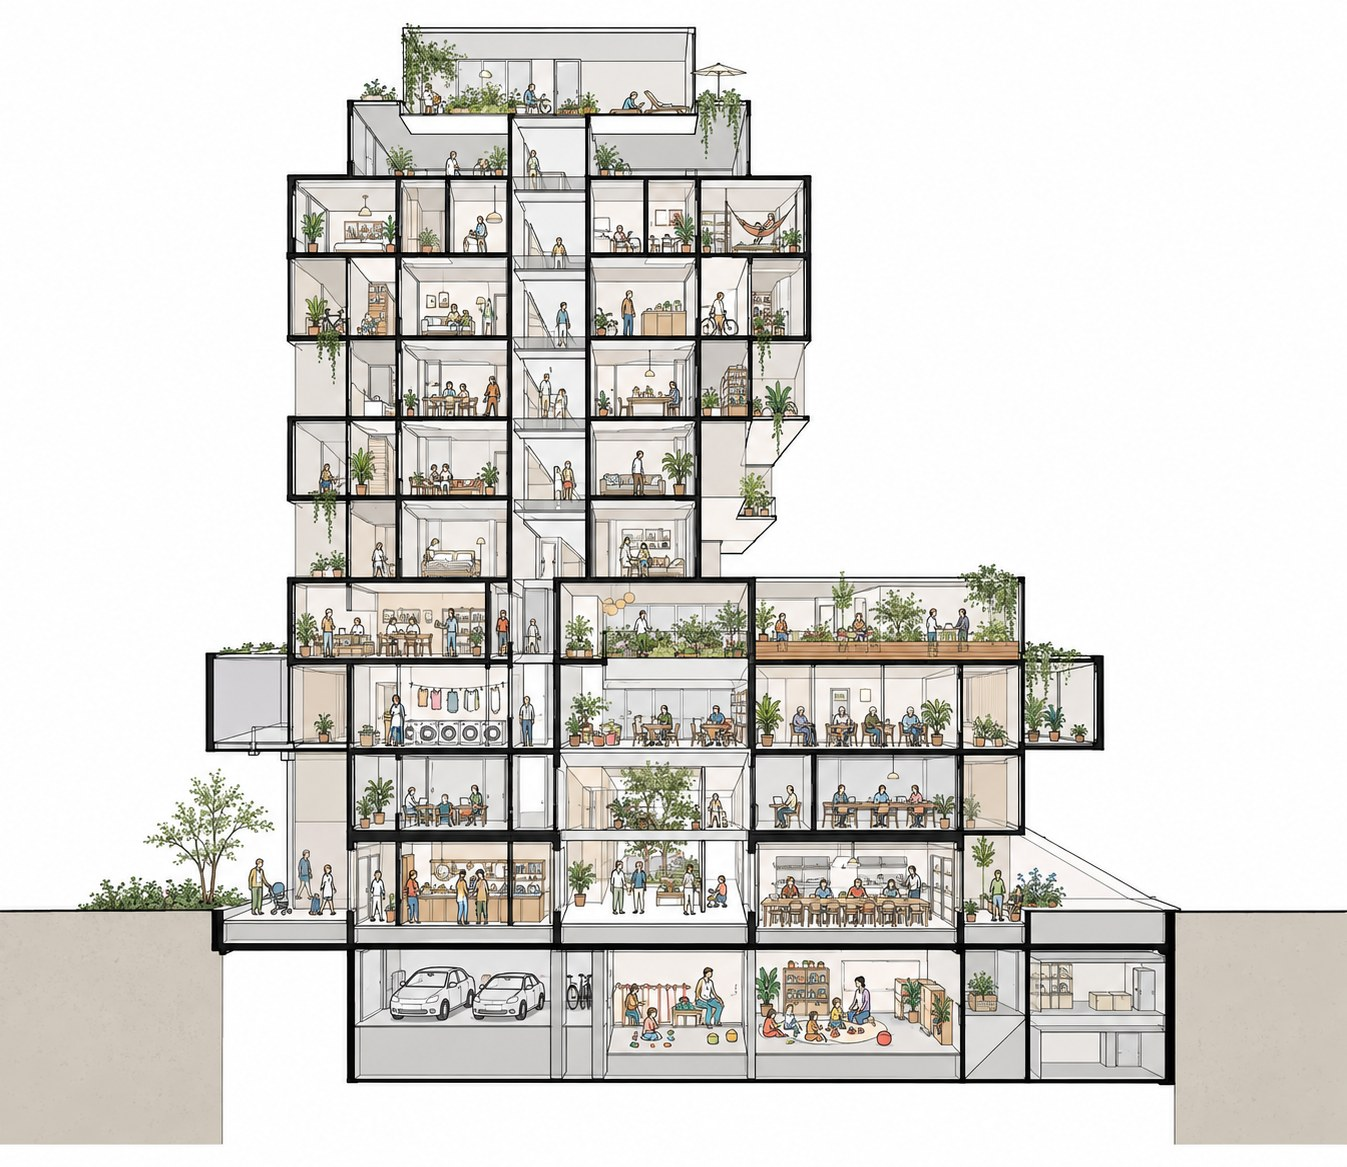
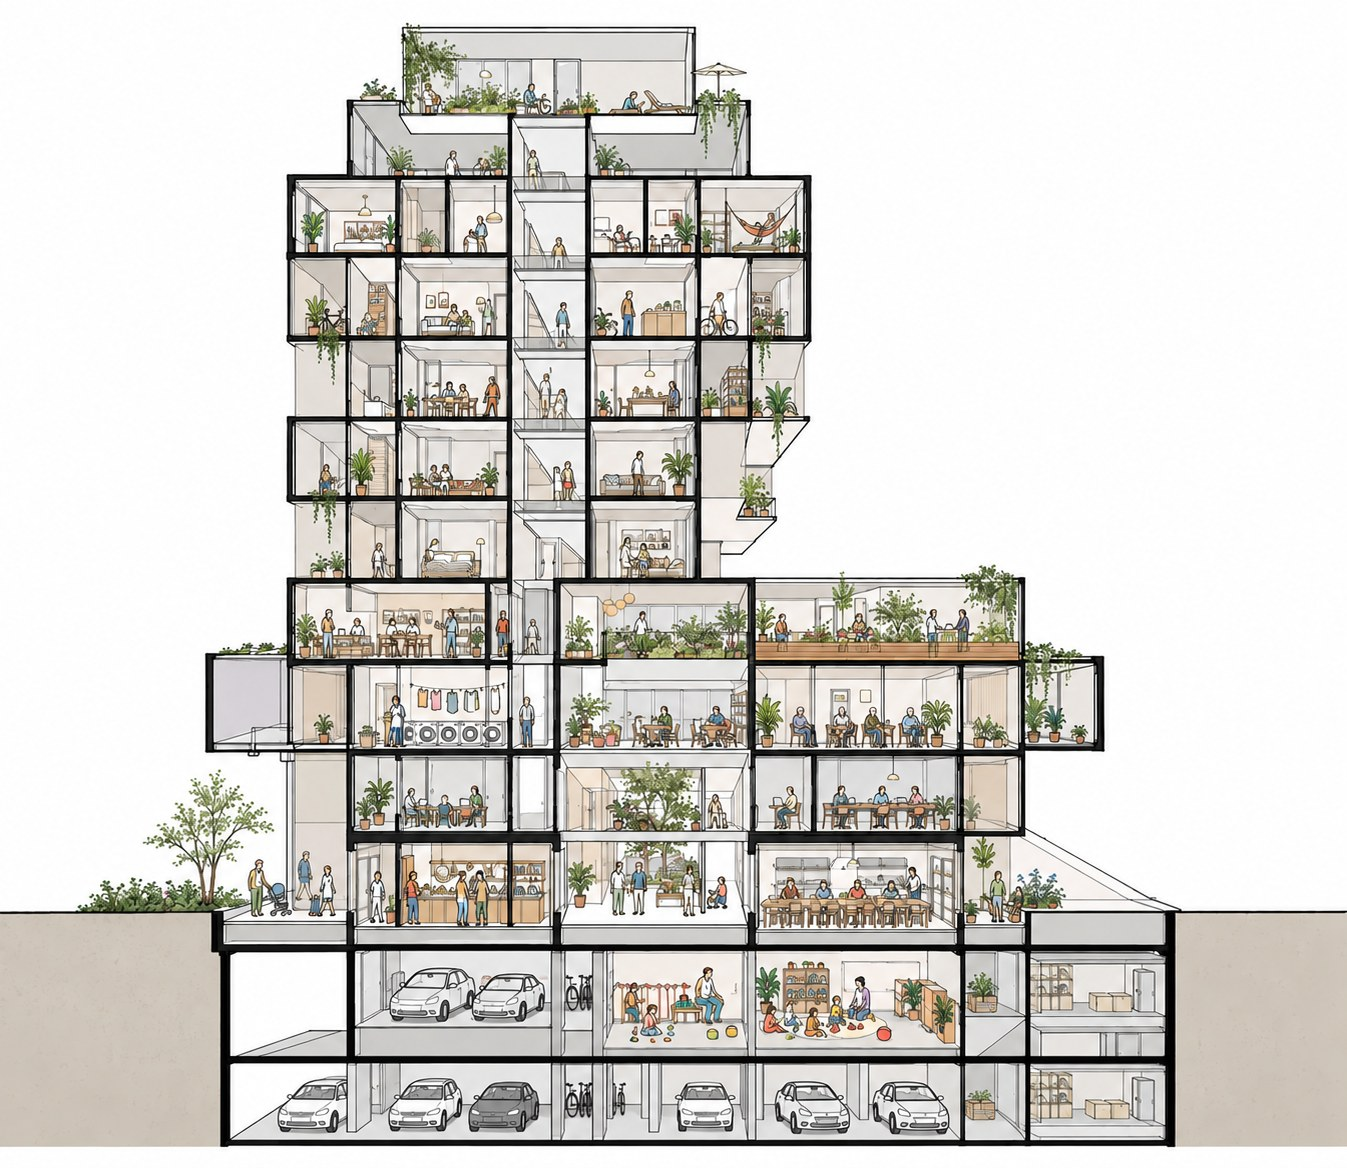
La Ola: corte con dos sótanos y render de calle con luz gris
Claude-Session: https://claude.ai/code/session_01Rs9TY9ki2YSVtRsSTGuvtX

Changed region(s): [[0.0, 0.0, 0.8731, 0.9871], [0.9978, 0.7712, 1.0, 0.8021], [0.3742, 0.4319, 0.4053, 0.4627]]

diff --git a/la-ola/index.html b/la-ola/index.html
@@ -158,7 +158,7 @@ footer{border-top:1px solid var(--rule);padding-top:16px;display:flex;flex-wrap:
     <p>Un edificio donde viven juntos niños, familias y adultos mayores. La vivienda se apila en módulos desplazados sobre un podio de espacios comunes, y una red de corredores y escaleras abiertas los cose a todos.</p>
   </div>
   <figure class="plano hero-ola">
-    <img src="img/corte-habitado.jpg" alt="Corte en perspectiva de La Ola habitado: parqueadero y guardería bajo la calle, comercio, cocina comunitaria, hogar de adultos mayores, lavandería, coworking y apartamentos con familias, unidos por un núcleo central">
+    <img src="img/corte-habitado.jpg" alt="Corte en perspectiva de La Ola habitado: dos niveles de parqueadero y la guardería bajo la calle, comercio, cocina comunitaria, hogar de adultos mayores, lavandería, coworking y apartamentos con familias, unidos por un núcleo central">
     <figcaption>Corte transversal por el núcleo. Dibujo de línea sacado del modelo, habitado después.</figcaption>
   </figure>
   <div class="leyenda" aria-label="Convenciones de programa">
@@ -273,7 +273,7 @@ footer{border-top:1px solid var(--rule);padding-top:16px;display:flex;flex-wrap:
 
 <figure class="full">
   <img src="img/calle-atardecer.jpg" alt="Imagen de atmósfera de La Ola al atardecer después de la lluvia: módulos de ladrillo desplazados sobre un podio de concreto, terrazas con enredaderas y una calle con ciclistas y una vendedora" style="border-radius:2px">
-  <figcaption>Atmósfera: la calle al atardecer, después de la lluvia. Ladrillo en la vivienda, concreto en el podio.</figcaption>
+  <figcaption>La calle al caer la tarde, después de la lluvia. Ladrillo en la vivienda, concreto en el podio.</figcaption>
 </figure>
 
 <section class="sec">
